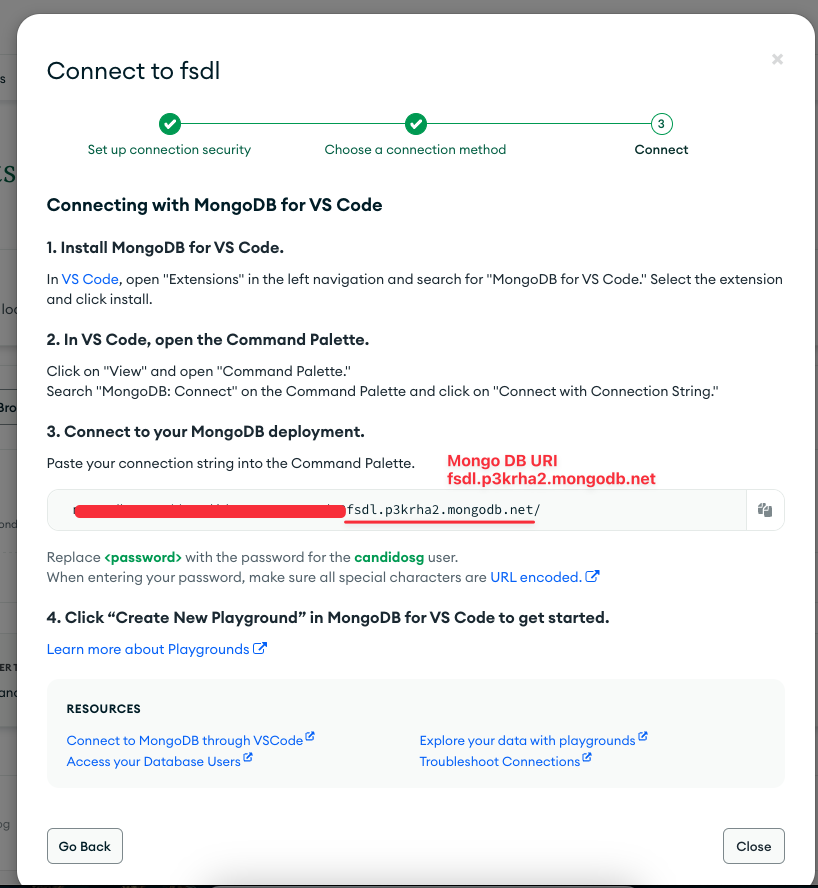
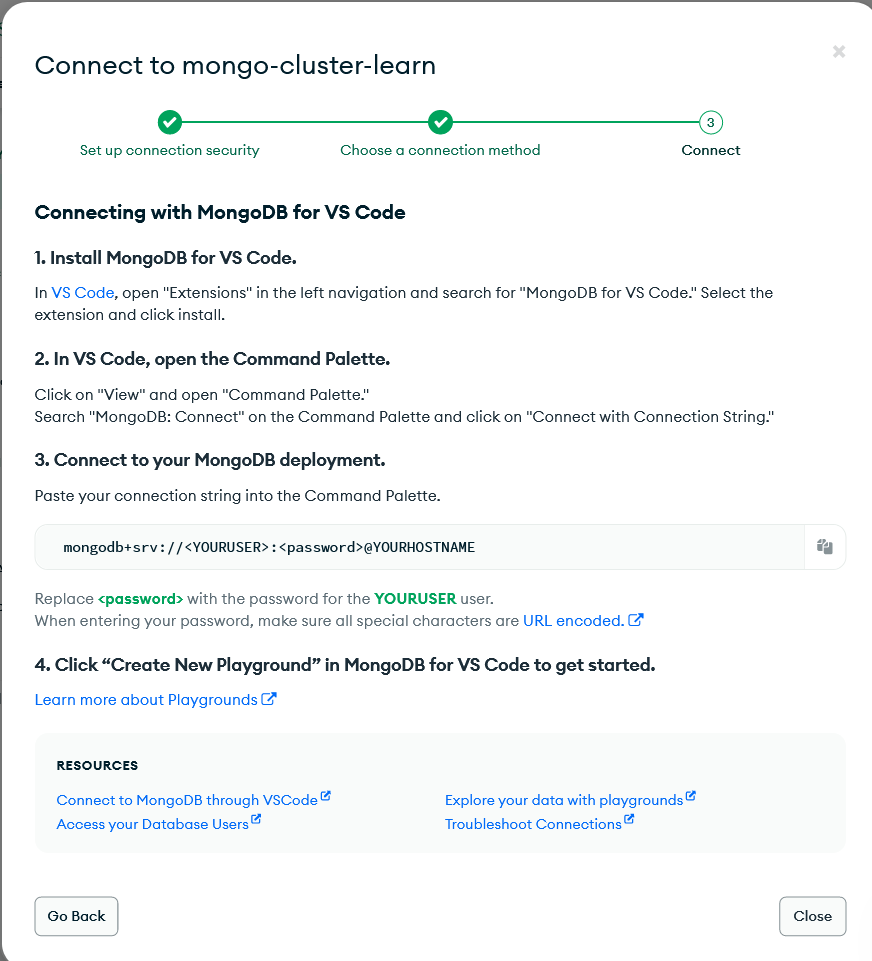
switches MONGODB_URI to MONGODB_HOST (#68)
* renames MONGODB_URI to MONGODB_HOST, makes secrets direct dependency of backend targets

* documents update to mongo secrets

Changed region(s): [[0.0, 0.0, 1.0, 1.0], [0.0611, 0.7905, 0.3973, 0.8818], [0.5196, 0.8209, 0.7946, 0.8818]]

diff --git a/docstore.py b/docstore.py
@@ -79,9 +79,9 @@ def connect(user=None, password=None, uri=None):
     mongodb_password = password or os.environ["MONGODB_PASSWORD"]
     mongodb_password = urllib.parse.quote_plus(mongodb_password)
 
-    mongodb_uri = uri or os.environ["MONGODB_URI"]
+    mongodb_host = uri or os.environ["MONGODB_HOST"]
 
-    connection_string = f"mongodb+srv://{mongodb_user}:{mongodb_password}@{mongodb_uri}/?retryWrites=true&w=majority"
+    connection_string = f"mongodb+srv://{mongodb_user}:{mongodb_password}@{mongodb_host}/?retryWrites=true&w=majority"
 
     client = pymongo.MongoClient(connection_string, connect=True, appname="ask-fsdl")
 

diff --git a/setup/SETUP.md b/setup/SETUP.md
@@ -207,6 +207,10 @@ Name them `fsdl` and `ask-fsdl`, respectively.
 #### d - Create a user and password
 
 See instructions [here](https://www.youtube.com/watch?v=5-hybmPlZ_U&t=11s).
+Add the username and password to the dotenv file.
+
+Make sure you save the password somewhere safe as well,
+like a password manager.
 
 #### e - Enable network access
 
@@ -217,15 +221,26 @@ See instructions [here](https://www.youtube.com/watch?v=5-hybmPlZ_U&t=11s).
 #### f - Get the information required to connect to the database
 
 To allow the application to connect to the database,
-it needs to know a few things:
+we need to construct a
+[connection string](https://www.mongodb.com/docs/manual/reference/connection-string/),
+a
+[URI](https://en.wikipedia.org/wiki/Uniform_Resource_Identifier)
+for connecting to databases.
 
-1. A "URI" that tells it where the database is
+To construct the connection string,
+we need three pieces of information:
+
+1. The name of the host where the database is running
 2. The name of a database user with read/write access to the database and its collections
 3. The password for that user
 
 This information goes in the dotenv file.
+You should have already entered the username and password
+while creating the user.
+If not, you'll need to retrieve the password
+from wherever you stored it.
 
-You can find that information, except for the password,
+You can find the rest of the information
 in the "Connect" tab of the MongoDB Atlas dashboard:
 
 ![connect-1](./mongodb/connect-1.png)
